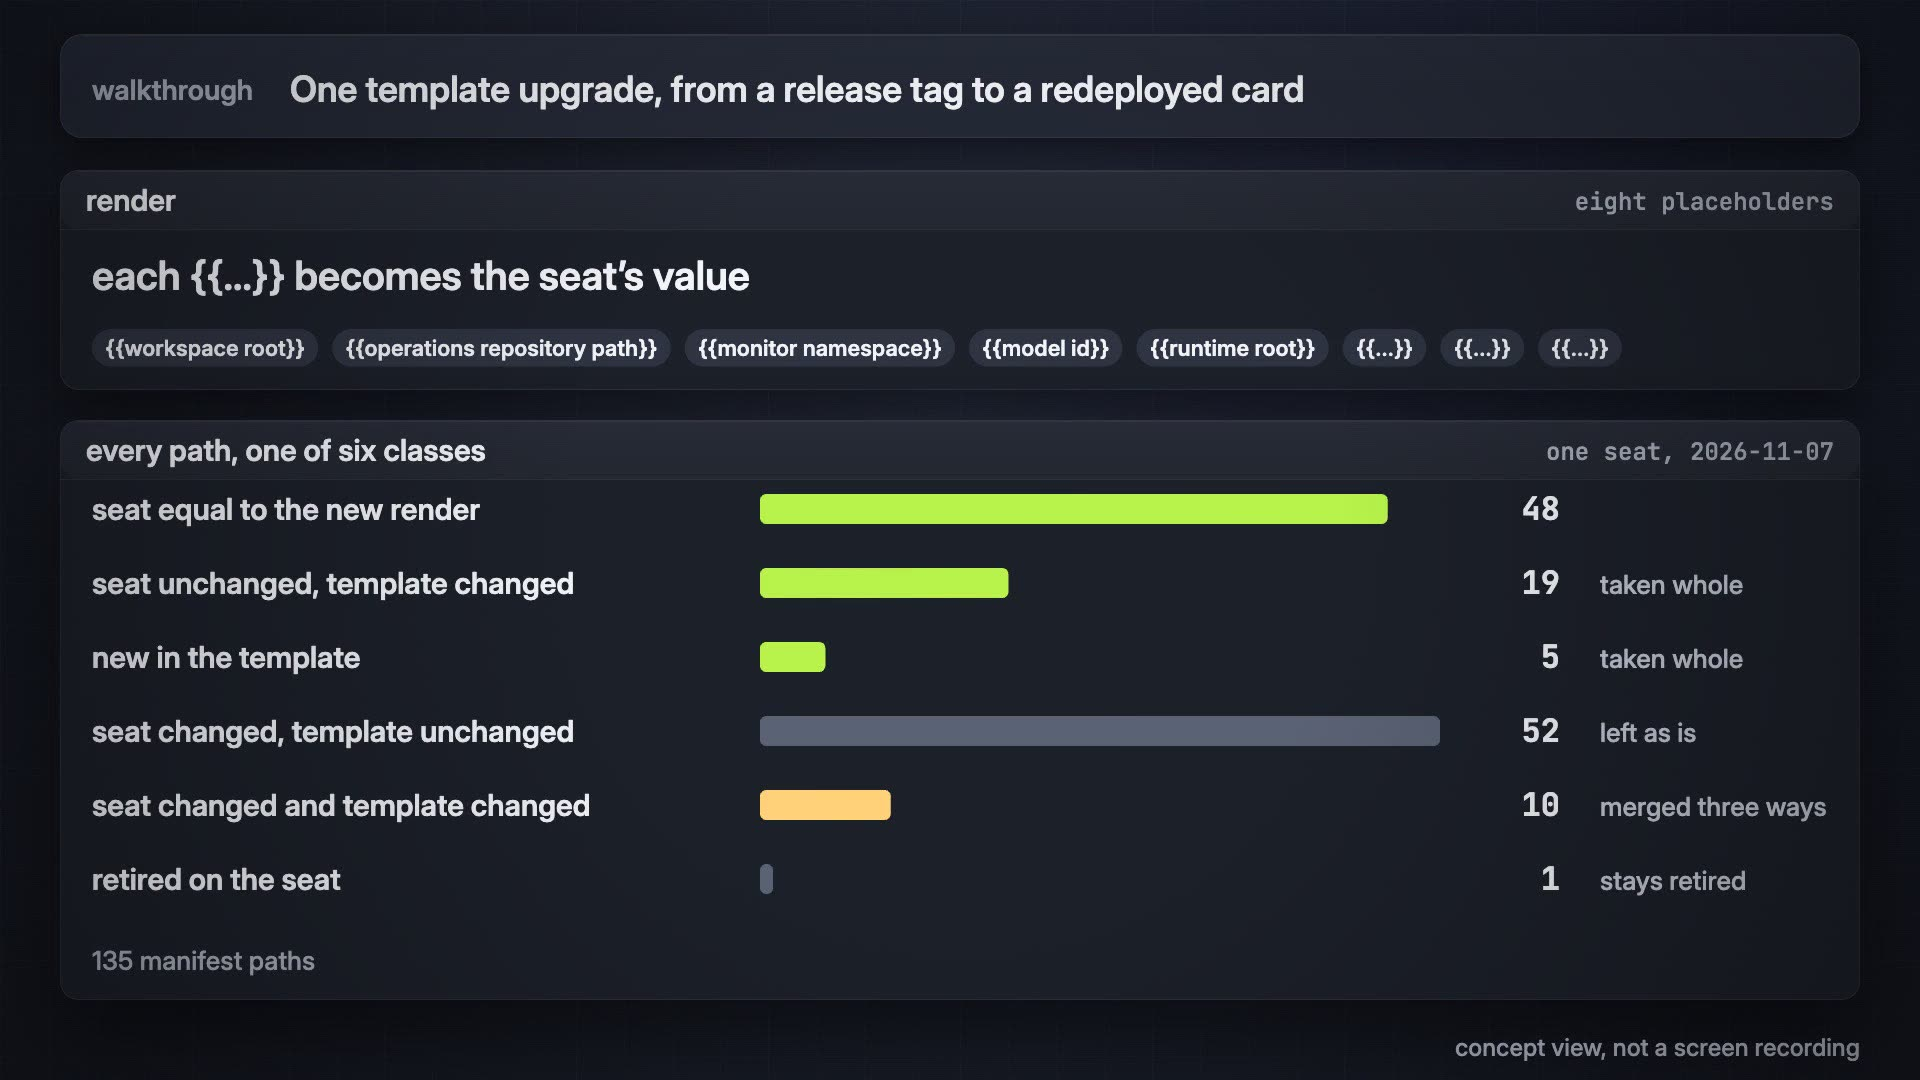
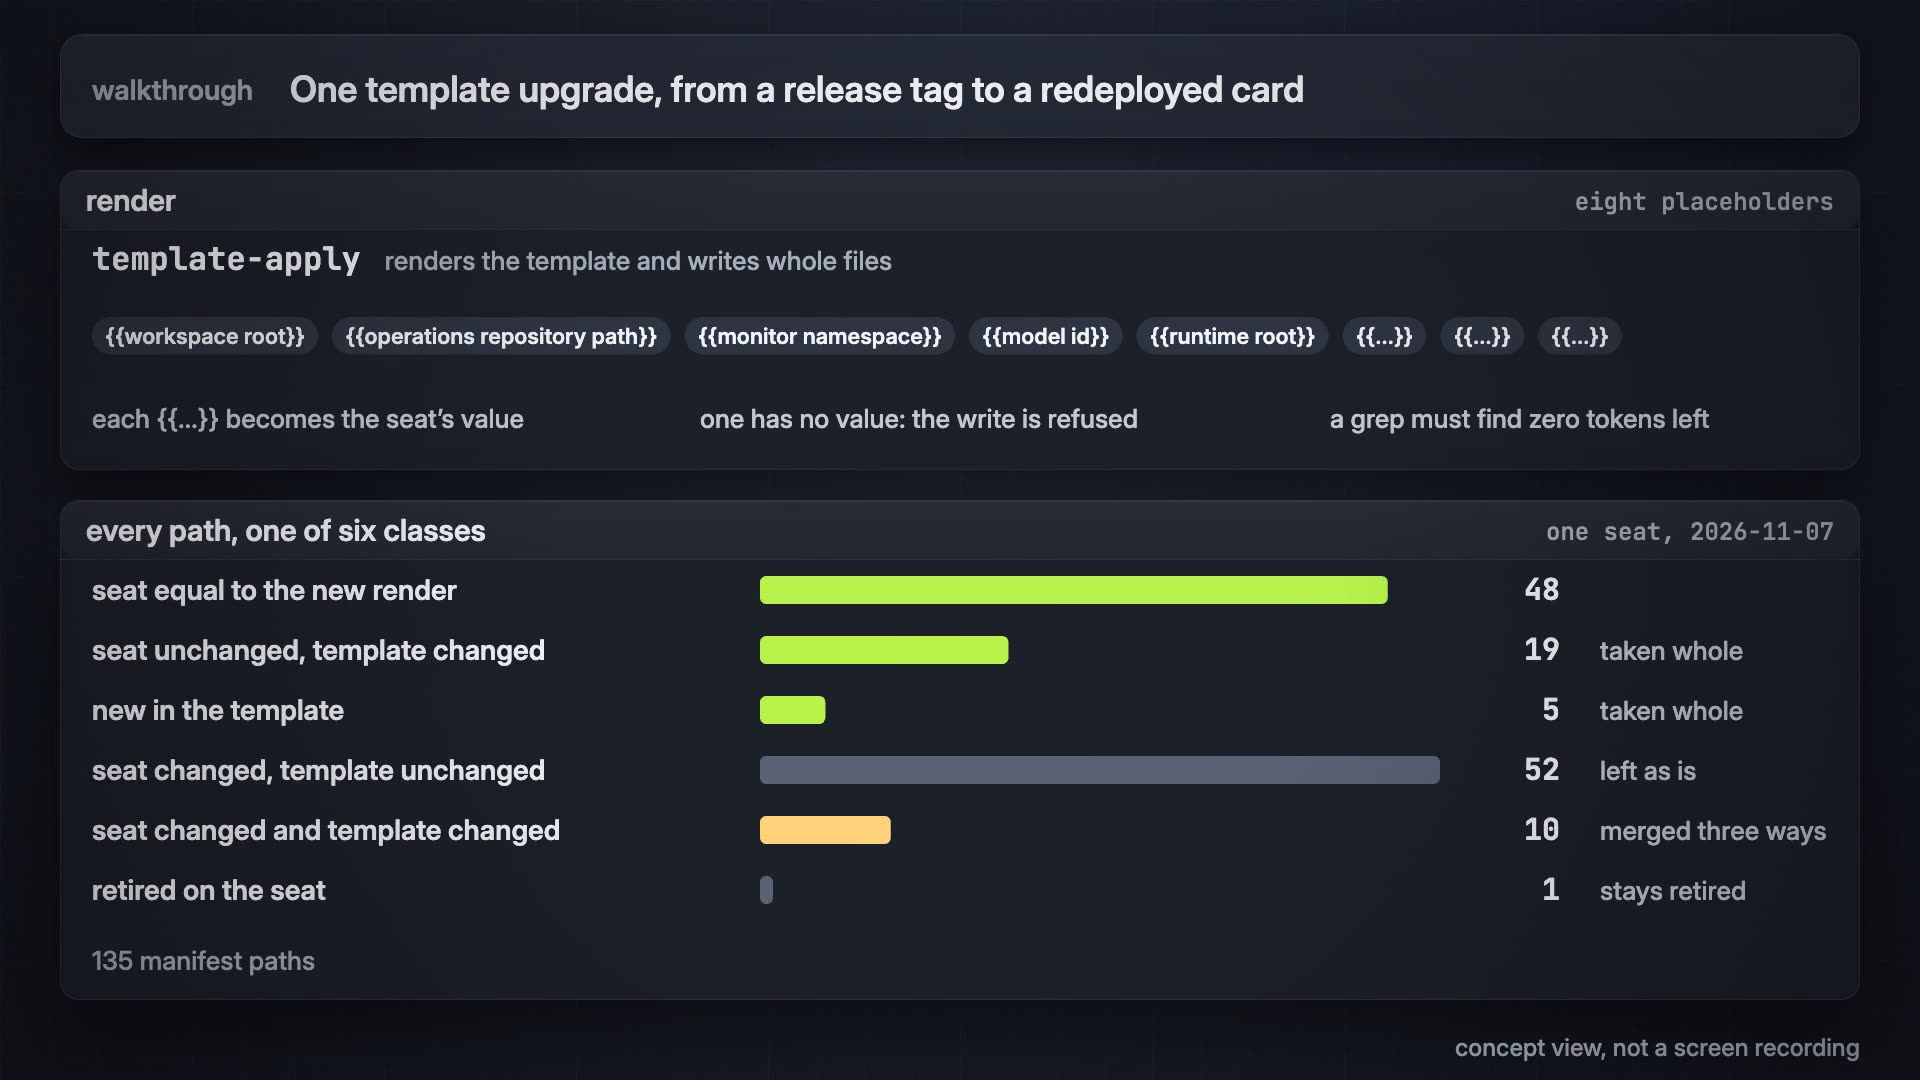
docs: films 2 and 3 re-cut with every tool named and explained

diff --git a/walkthroughs/02-one-master-generation.md b/walkthroughs/02-one-master-generation.md
@@ -2,13 +2,13 @@
 
 **In one breath.** A master is a long session with a declared role. It is spawned on purpose into an expected place and proves it landed there. It measures its own model and its harness, retires the session before it by three measured disappearances, and writes one entry in the lineage, the file with one entry per generation. Then it works by continuing and compacting (summarizing its own context and going on) until the owner says to hand over.
 
-**Watch the 30-second film.** Concept view, not a screen recording; every claim on screen is a step on this page. The [release page](https://github.com/baksohyeon/mogui-harness-explained/releases/tag/walkthrough-films-20261109) has the file, the scene-to-step table, and the credits.
+**Watch the 35-second film.** Concept view, not a screen recording; every claim on screen is a step on this page. The [release page](https://github.com/baksohyeon/mogui-harness-explained/releases/tag/walkthrough-films-20261109) has the file, the scene-to-step table, and the credits.
 
 <p align="center"><a href="https://github.com/baksohyeon/mogui-harness-explained/releases/tag/walkthrough-films-20261109"><img src="../assets/walkthroughs/02-one-master-generation-poster.jpg" alt="a frame of the film: pane, process, and tty each measured gone, and the predecessor reads CLOSED" width="100%"></a></p>
 
 <p align="center"><sub>The player below shows in a web browser. In the GitHub mobile app, tap the picture; the release page has the film.</sub></p>
 
-https://github.com/user-attachments/assets/88734d68-7beb-48f4-a0ab-464b8221fe4c
+https://github.com/user-attachments/assets/a51bb951-a3ce-48fc-8825-98b482c13db1
 
 Eleven steps, and the last one points back at the first.
 

diff --git a/walkthroughs/03-one-template-upgrade.md b/walkthroughs/03-one-template-upgrade.md
@@ -2,13 +2,13 @@
 
 **In one breath.** The harness ships as a template. An installed seat renders it with its own values, keeps a short list of files the template never touches, and adapts others over time. An upgrade measures the gap against a manifest and classifies every path. It applies the template's files where the seat has not drifted, merges by hand where both sides changed, runs the tests, and ships one pull request.
 
-**Watch the 30-second film.** Concept view, not a screen recording; every claim on screen is a step on this page. The [release page](https://github.com/baksohyeon/mogui-harness-explained/releases/tag/walkthrough-films-20261109) has the file, the scene-to-step table, and the credits.
+**Watch the 35-second film.** Concept view, not a screen recording; every claim on screen is a step on this page. The [release page](https://github.com/baksohyeon/mogui-harness-explained/releases/tag/walkthrough-films-20261109) has the file, the scene-to-step table, and the credits.
 
 <p align="center"><a href="https://github.com/baksohyeon/mogui-harness-explained/releases/tag/walkthrough-films-20261109"><img src="../assets/walkthroughs/03-one-template-upgrade-poster.jpg" alt="a frame of the film: every manifest path falls into one of six classes, 48, 19, 5, 52, 10, 1, on one seat on 2026-11-07" width="100%"></a></p>
 
 <p align="center"><sub>The player below shows in a web browser. In the GitHub mobile app, tap the picture; the release page has the film.</sub></p>
 
-https://github.com/user-attachments/assets/abcde7ab-db47-46eb-8fa5-ab0831cfa1e0
+https://github.com/user-attachments/assets/4a4f0ca7-1919-4d52-87a3-a778eea2f954
 
 Twelve steps.
 
